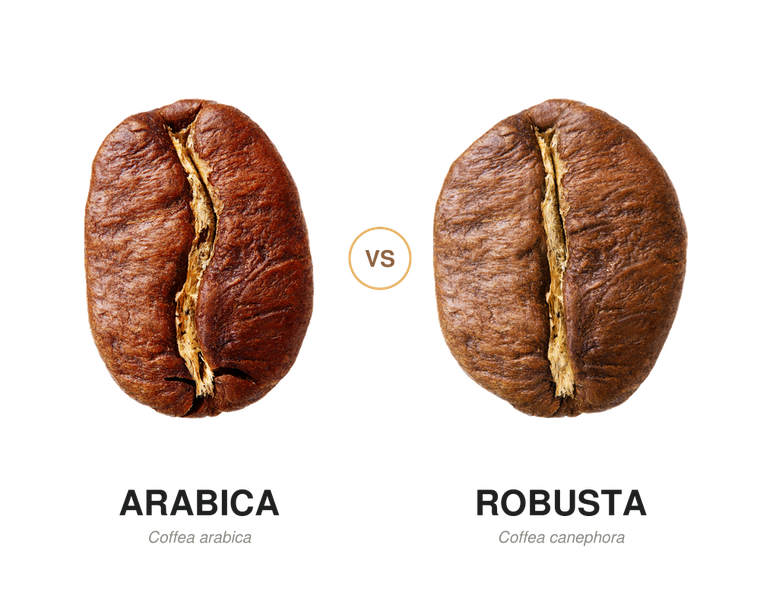
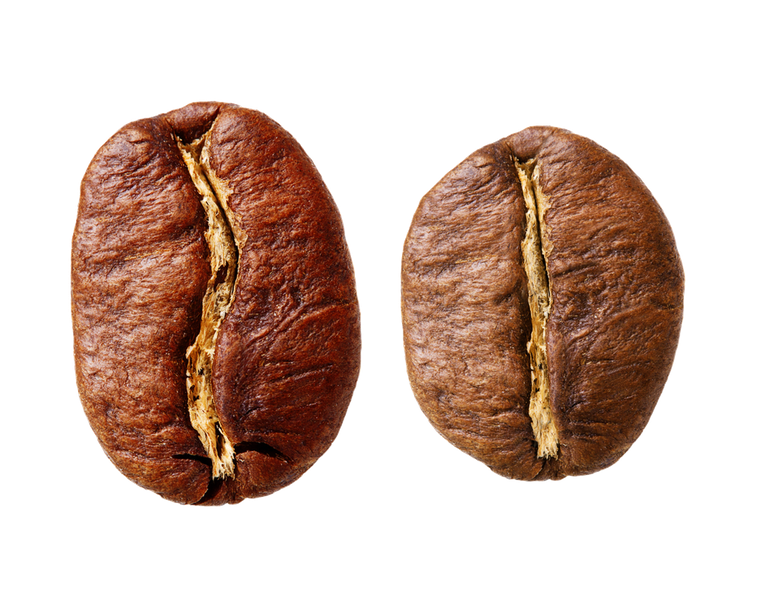
Tool grid: keep 3 cards fixed, scroll for the rest; real bean photos
Grid was squeezing all 4 cards into one row, shrinking the three
finished tools. It is now a horizontal scroller sized so exactly 3
cards fit, with the rest (4, and any 5/6 later) reached by dragging.
A right-edge fade appears only while there is more to reveal, and a
row of dots below marks position and jumps to any card.

Card thumbnail and OG image now use the real bean photos from the
course slide artwork instead of drawn shapes, with no text overlay so
they read like the other three cards.

Bean sizing reflects reality throughout: Robusta is rendered ~12%
smaller than Arabica (in the thumbnail, the OG image, and the identity
card). Added a matching "Kích thước hạt" comparison row noting the
10–15% difference and the S-shaped vs straight centre crease.

diff --git a/app/public-site.css b/app/public-site.css
@@ -102,7 +102,19 @@
 .instructor-card-photo{position:relative;min-height:620px;overflow:hidden}
 .instructor-portrait{position:absolute;inset:0}
 
-.knowledge-section{background:var(--paper)}.tool-grid{max-width:var(--content-max);margin-inline:auto;display:grid;grid-template-columns:repeat(4,1fr);gap:18px;background:transparent;border:0}.tool-card{min-height:500px;display:grid;grid-template-rows:260px 1fr;background:var(--paper-2);border:1px solid rgba(30,31,31,.08);border-radius:var(--radius-lg);overflow:hidden;box-shadow:0 1px 0 rgba(30,31,31,.04);transition:background .3s var(--ease),transform .35s var(--ease),box-shadow .35s var(--ease)}.tool-card:hover{background:#ece9e1;transform:translateY(-6px);box-shadow:0 24px 44px rgba(21,20,15,.16)}.tool-visual{position:relative;isolation:isolate;overflow:hidden;background:#f7f5ef}.tool-visual:after{content:"";position:absolute;z-index:3;inset:16px;border:1px solid rgba(30,31,31,.1);pointer-events:none}.tool-thumbnail{z-index:1;object-fit:contain;object-position:center;transition:transform .6s var(--ease),filter .6s var(--ease);will-change:transform}.tool-card:hover .tool-thumbnail{transform:scale(1.025)}
+.knowledge-section{background:var(--paper)}
+/* 3 thẻ chính cố định trong khung nhìn; thẻ 4, 5, 6... nằm ngoài, kéo ngang để xem.
+   Dải mờ bên phải là dấu hiệu còn nội dung phía sau. */
+.tool-grid{max-width:var(--content-max);margin-inline:auto;display:flex;gap:18px;background:transparent;border:0;overflow-x:auto;scroll-snap-type:x proximity;scrollbar-width:none;scroll-behavior:smooth;-webkit-overflow-scrolling:touch}
+.tool-grid::-webkit-scrollbar{display:none}
+.tool-grid.has-overflow{-webkit-mask-image:linear-gradient(90deg,#000 calc(100% - 56px),transparent);mask-image:linear-gradient(90deg,#000 calc(100% - 56px),transparent)}
+/* Điều khiển carousel: mũi tên cuộn vòng tròn + chấm chỉ vị trí, để người dùng
+   thấy ngay là còn công cụ phía sau chứ không chỉ có 3 thẻ đang hiện. */
+.tool-nav{max-width:var(--content-max);margin:30px auto 0;display:flex;align-items:center;justify-content:center;gap:7px}
+.tool-nav-dot{width:6px;height:6px;padding:0;border:0;border-radius:50%!important;background:var(--line);cursor:pointer;transition:background-color .3s var(--ease)}
+.tool-nav-dot:hover{background:var(--quiet)}
+.tool-nav-dot.is-active{background:var(--copper)}
+.tool-card{flex:0 0 calc((100% - 36px)/3);scroll-snap-align:start;min-height:540px;display:grid;grid-template-rows:300px 1fr;background:var(--paper-2);border:1px solid rgba(30,31,31,.08);border-radius:var(--radius-lg);overflow:hidden;box-shadow:0 1px 0 rgba(30,31,31,.04);transition:background .3s var(--ease),transform .35s var(--ease),box-shadow .35s var(--ease)}.tool-card:hover{background:#ece9e1;transform:translateY(-6px);box-shadow:0 24px 44px rgba(21,20,15,.16)}.tool-visual{position:relative;isolation:isolate;overflow:hidden;background:#f7f5ef}.tool-visual:after{content:"";position:absolute;z-index:3;inset:16px;border:1px solid rgba(30,31,31,.1);pointer-events:none}.tool-thumbnail{z-index:1;object-fit:contain;object-position:center;transition:transform .6s var(--ease),filter .6s var(--ease);will-change:transform}.tool-card:hover .tool-thumbnail{transform:scale(1.025)}
 .tool-card-pending.reveal.is-visible{opacity:.45}.tool-card-pending{filter:grayscale(.35)}.tool-card-pending .tool-card-meta small{color:var(--copper)}
 @media(hover:hover){.tool-card-pending.reveal.is-visible:hover,.tool-card-pending.reveal.is-visible:focus-visible{opacity:.85}.tool-card-pending:hover,.tool-card-pending:focus-visible{filter:grayscale(0)}}
 .tool-card-wheel:hover .tool-thumbnail,.tool-card-wheel:focus-visible .tool-thumbnail{animation:toolWheelSpin 8s linear infinite}.tool-card-wheel:active .tool-thumbnail{animation:toolWheelSpin 1.1s linear infinite}.tool-card-map .tool-visual:before{content:"";position:absolute;z-index:2;inset:0;background:url("/images/tools/vietnam-coffee-map-centered.png") center/contain no-repeat;opacity:0;clip-path:inset(0 0 88% 0);filter:brightness(1.18) saturate(1.4) drop-shadow(0 0 4px rgba(255,194,102,.95)) drop-shadow(0 0 12px rgba(191,129,60,.68));pointer-events:none;will-change:clip-path,opacity}.tool-card-map:hover .tool-thumbnail,.tool-card-map:focus-visible .tool-thumbnail{transform:scale(1.018)}.tool-card-map:hover .tool-visual:before,.tool-card-map:focus-visible .tool-visual:before{animation:toolMapSweep 3.4s ease-in-out infinite}.tool-card-map:active .tool-visual:before{animation-duration:1.7s}

diff --git a/app/PublicSite.tsx b/app/PublicSite.tsx
@@ -370,6 +370,8 @@ export default function PublicSite({ onExperience }: PublicSiteProps) {
   const rootRef = useRef<HTMLElement>(null);
   const instructorTimelineRef = useRef<HTMLOListElement>(null);
   const alumniTrackRef = useRef<HTMLDivElement>(null);
+  const toolGridRef = useRef<HTMLDivElement>(null);
+  const [activeTool, setActiveTool] = useState(0);
   const alumniState = useRef({
     offset: 0,
     dragging: false,
@@ -399,6 +401,60 @@ export default function PublicSite({ onExperience }: PublicSiteProps) {
     localStorage.setItem("crema-theme", theme);
     document.documentElement.dataset.cremaTheme = theme;
   }, [theme, themeReady]);
+
+  // Carousel vòng tròn: bấm trái ở thẻ đầu quay về thẻ cuối và ngược lại.
+  const scrollToTool = (index: number) => {
+    const grid = toolGridRef.current;
+    if (!grid) return;
+    const total = knowledgeTools.length;
+    const target = ((index % total) + total) % total;
+    const card = grid.children[target] as HTMLElement | undefined;
+    if (card) grid.scrollTo({ left: card.offsetLeft - grid.offsetLeft, behavior: "smooth" });
+  };
+
+  // Dải mờ mép phải chỉ hiện khi còn thẻ chưa lộ (vd. thẻ 4 trở đi), tắt khi
+  // đã kéo tới cuối để thẻ cuối không bị mờ oan. Đồng thời theo dõi thẻ đang
+  // ở đầu khung nhìn để chấm chỉ vị trí khớp cả khi người dùng tự kéo.
+  useEffect(() => {
+    const grid = toolGridRef.current;
+    if (!grid) return;
+
+    const sync = () => {
+      const remaining = grid.scrollWidth - grid.clientWidth - grid.scrollLeft;
+      grid.classList.toggle("has-overflow", remaining > 8);
+
+      const cards = Array.from(grid.children) as HTMLElement[];
+      if (!cards.length) return;
+
+      // Ở cuối dải, thẻ cuối đã hiện nhưng không thể trôi tới mép trái được nữa
+      // (container hết chỗ cuộn) — khi đó cho sáng luôn chấm cuối cho khớp với
+      // thứ người dùng đang nhìn thấy.
+      if (remaining <= 8) {
+        setActiveTool(cards.length - 1);
+        return;
+      }
+
+      let nearest = 0;
+      let best = Infinity;
+      cards.forEach((card, i) => {
+        const distance = Math.abs(card.offsetLeft - grid.offsetLeft - grid.scrollLeft);
+        if (distance < best) {
+          best = distance;
+          nearest = i;
+        }
+      });
+      setActiveTool(nearest);
+    };
+
+    sync();
+    grid.addEventListener("scroll", sync, { passive: true });
+    const observer = new ResizeObserver(sync);
+    observer.observe(grid);
+    return () => {
+      grid.removeEventListener("scroll", sync);
+      observer.disconnect();
+    };
+  }, []);
 
   useEffect(() => {
     const track = alumniTrackRef.current;
@@ -659,7 +715,7 @@ export default function PublicSite({ onExperience }: PublicSiteProps) {
           </p>
         </div>
 
-        <div className="tool-grid">
+        <div className="tool-grid" ref={toolGridRef}>
           {knowledgeTools.map((tool, index) => (
             <a
               className={`tool-card tool-card-${tool.effect}${tool.pending ? " tool-card-pending" : ""} reveal spotlight`}
@@ -689,6 +745,20 @@ export default function PublicSite({ onExperience }: PublicSiteProps) {
                 <p>{tool.description}</p>
               </div>
             </a>
+          ))}
+        </div>
+
+        <div className="tool-nav" role="tablist" aria-label="Chọn công cụ">
+          {knowledgeTools.map((tool, index) => (
+            <button
+              type="button"
+              key={tool.href}
+              role="tab"
+              className={`tool-nav-dot${index === activeTool ? " is-active" : ""}`}
+              aria-label={tool.title}
+              aria-selected={index === activeTool}
+              onClick={() => scrollToTool(index)}
+            />
           ))}
         </div>
       </section>

diff --git a/public/tools/arabica-robusta.html b/public/tools/arabica-robusta.html
@@ -70,7 +70,9 @@ section.identity-section{padding:6px 32px 8px;max-width:920px;}
   border-left:4px solid var(--coffee);transition:border-color .2s;
   display:flex;align-items:center;gap:26px;}
 .identity-card.is-robusta{border-left-color:var(--robusta);}
-.identity-card .id-bean{flex:0 0 auto;width:112px;height:auto;display:block;}
+/* Giữ đúng tương quan thật: hạt Robusta nhỏ hơn Arabica ~10–15%. */
+.identity-card .id-bean{flex:0 0 auto;width:112px;height:auto;display:block;transition:width .2s;}
+.identity-card.is-robusta .id-bean{width:98px;}
 .identity-card .id-body{flex:1 1 auto;min-width:0;}
 .identity-card .id-head{display:flex;align-items:baseline;gap:10px;flex-wrap:wrap;margin-bottom:8px;}
 .identity-card h2{font-size:20px;}
@@ -347,7 +349,9 @@ const AGRO_ROWS = [
   { key: "pest", label: "KHÁNG SÂU BỆNH", a: "Thấp", r: "Cao", af: 0.28, rf: 0.82,
     info: "Bộ gen tứ bội và nền di truyền hẹp hơn khiến Arabica dễ tổn thương trước sâu bệnh — đặc biệt bệnh gỉ sắt lá cà phê (coffee leaf rust) — hơn Robusta." },
   { key: "yield", label: "SẢN LƯỢNG", a: "Thấp hơn", r: "Cao ~30–40%", af: 0.38, rf: 0.8,
-    info: "Robusta cho sản lượng mỗi cây cao hơn đáng kể, một phần vì cây khoẻ hơn, ít rụng trái do sâu bệnh và chịu được mật độ trồng dày hơn." }
+    info: "Robusta cho sản lượng mỗi cây cao hơn đáng kể, một phần vì cây khoẻ hơn, ít rụng trái do sâu bệnh và chịu được mật độ trồng dày hơn." },
+  { key: "size", label: "KÍCH THƯỚC HẠT", a: "Lớn hơn", r: "Nhỏ hơn 10–15%", af: 0.82, rf: 0.7,
+    info: "Cách phân biệt nhanh nhất bằng mắt thường: hạt Arabica dài, dáng oval và rãnh giữa cong lượn hình chữ S; hạt Robusta nhỏ hơn khoảng 10–15%, tròn hơn và rãnh giữa gần như thẳng." }
 ];
 
 const SENSORY_ROWS = [
